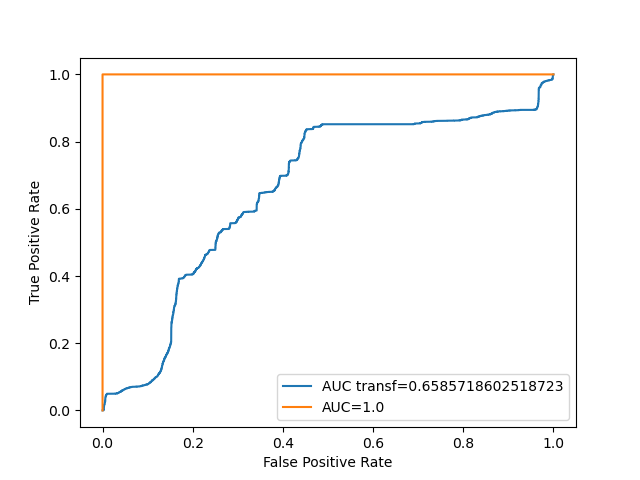
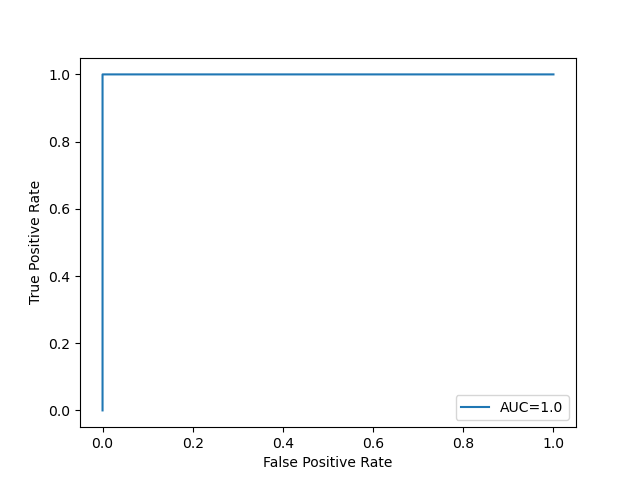
re-added the aggregate models plot

diff --git a/tests/test_models.py b/tests/test_models.py
@@ -36,7 +36,7 @@ def calc_roc_auc(y_tests, y_preds, model_name):
 
 def plt_roc_curve_open(y_test, y_pred, score, fname):
     fpr, tpr, _ = roc_curve(y_test,  y_pred)
-
+    plt.figure(2)
     #create ROC curve
     plt.plot(fpr,tpr,label=f"AUC {fname}="+str(score))
     plt.ylabel('True Positive Rate')
@@ -44,12 +44,13 @@ def plt_roc_curve_open(y_test, y_pred, score, fname):
     plt.legend(loc=4)
 
 def save_plot():
+    plt.figure(2)
     plt.savefig(f"../results/plots/auc_roc.png")
     plt.close()
 
 def plt_roc_curve(y_test, y_pred, score, fname):
     fpr, tpr, _ = roc_curve(y_test,  y_pred)
-
+    plt.figure(1)
     #create ROC curve
     plt.plot(fpr,tpr,label="AUC="+str(score))
     plt.ylabel('True Positive Rate')
@@ -148,16 +149,18 @@ print("\tDone!")
 print("Calculating AUC ROC...")
 if TEST_HOEFTREE == 1:
     score_ht = roc_auc(Y, y_pred_ht, "ht")
-
+    plt_roc_curve_open(np.concatenate(Y), np.concatenate(y_pred_ht), score_ht[-1], "ht")
 if TEST_CNN == 1:
     score_cnn = roc_auc(Y, y_pred_cnn, "cnn")
-
+    plt_roc_curve_open(np.concatenate(Y), np.concatenate(y_pred_cnn), score_cnn[-1], "cnn")
 if TEST_TRANSFORMER == 1:
     score_transf = roc_auc(Y, y_pred_transf, "transf")
-
+    plt_roc_curve_open(np.concatenate(Y), np.concatenate(y_pred_transf), score_transf[-1], "transf")
 if TEST_CAT_BOOST == 1:
     score_cb = roc_auc(Y, y_pred_cb, "cb")
+    plt_roc_curve_open(np.concatenate(Y), np.concatenate(y_pred_cb), score_cb[-1], "cb")
 
+save_plot()
 
 """
 score_ht        = calc_roc_auc(Y, y_pred_ht, "ht")
